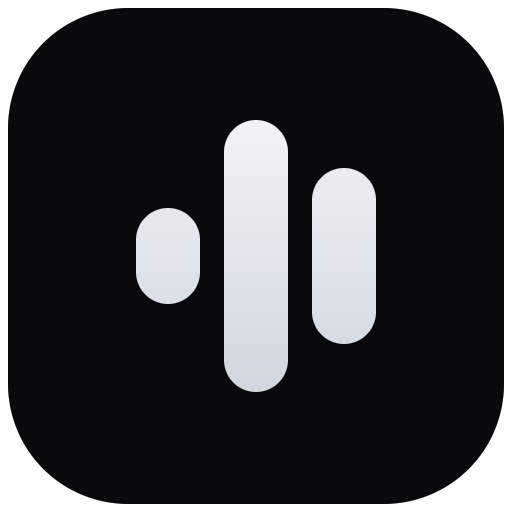
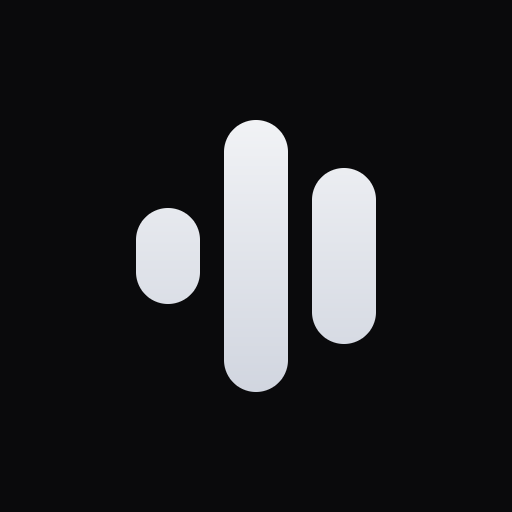
fix: 站点图标改为整幅不透明填充，去掉透明背景

Changed region(s): [[0.0, 0.0, 1.0, 1.0]]

diff --git a/index.html b/index.html
@@ -11,14 +11,14 @@
 <meta property="og:type" content="website" />
 <meta property="og:title" content="RVC Sound Clone · 网页端声音克隆" />
 <meta property="og:description" content="基于 RVC 的网页端声音克隆工具：浏览器内推理，可静态部署，也可连接本地 RVC 服务。" />
-<meta property="og:image" content="assets/icon-512.png?v=3" />
+<meta property="og:image" content="assets/icon-512.png?v=4" />
 <!-- 主图标用内联 data URI：favicon 缓存很顽固，内联可保证每次加载都拿到当前设计 -->
[1 lines of base64/hex data omitted]
-<link rel="icon" href="assets/favicon.ico?v=3" sizes="any" />
-<link rel="icon" type="image/png" href="assets/icon-32.png?v=3" sizes="32x32" />
-<link rel="icon" type="image/png" href="assets/icon-16.png?v=3" sizes="16x16" />
-<link rel="apple-touch-icon" href="assets/icon-180.png?v=3" />
-<link rel="manifest" href="manifest.webmanifest?v=3" />
[1 lines of base64/hex data omitted]
+<link rel="icon" href="assets/favicon.ico?v=4" sizes="any" />
+<link rel="icon" type="image/png" href="assets/icon-32.png?v=4" sizes="32x32" />
+<link rel="icon" type="image/png" href="assets/icon-16.png?v=4" sizes="16x16" />
+<link rel="apple-touch-icon" href="assets/icon-180.png?v=4" />
+<link rel="manifest" href="manifest.webmanifest?v=4" />
 <link rel="stylesheet" href="assets/css/style.css" />
 </head>
 <body>
@@ -28,7 +28,7 @@
 <!-- 启动遮罩：模块加载完成后移除 -->
 <div class="boot" id="boot">
   <div class="boot-logo">
-    <img src="assets/favicon.svg?v=3" alt="" width="56" height="56" />
+    <img src="assets/favicon.svg?v=4" alt="" width="56" height="56" />
   </div>
   <p class="boot-text" id="bootText">正在加载模型索引…</p>
   <div class="boot-bar"><span id="bootBar"></span></div>
@@ -36,7 +36,7 @@
 
 <header class="topbar">
   <a class="brand" href="#/convert" data-i18n-title="brand.refresh">
-    <img class="brand-logo" src="assets/favicon.svg?v=3" alt="" width="30" height="30" />
+    <img class="brand-logo" src="assets/favicon.svg?v=4" alt="" width="30" height="30" />
     <span class="brand-text">
       <strong>RVC<span class="dot">.</span> Sound Clone</strong>
       <small data-i18n="brand.tag">网页端声音克隆</small>

diff --git a/tools/make_icons.py b/tools/make_icons.py
@@ -14,8 +14,8 @@ import zlib
 OUT_DIR = os.path.join(os.path.dirname(os.path.abspath(__file__)), "..", "assets")
 
 VIEW = 64.0
-# 深色圆角底（左上角坐标与半径）
-TILE = (1.0, 1.0, 62.0, 62.0, 15.0)
+# 深色底：整幅填充（左上角坐标、宽高、圆角半径 0 = 无圆角无透明角）
+TILE = (0.0, 0.0, 64.0, 64.0, 0.0)
 TILE_RGB = (0x0A / 255, 0x0A / 255, 0x0C / 255)
 # 三条音量柱（x, y, w, h），统一圆角半径
 BARS = [(17.0, 26.0, 8.0, 12.0), (28.0, 15.0, 8.0, 34.0), (39.0, 21.0, 8.0, 22.0)]
